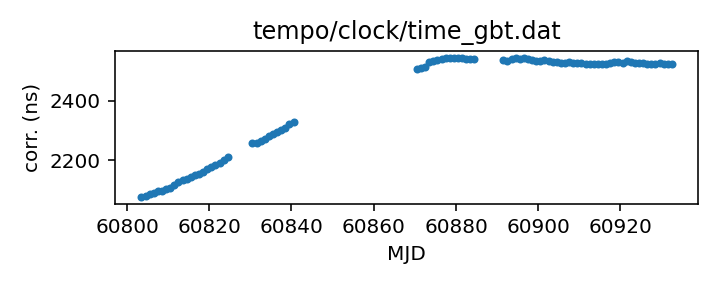
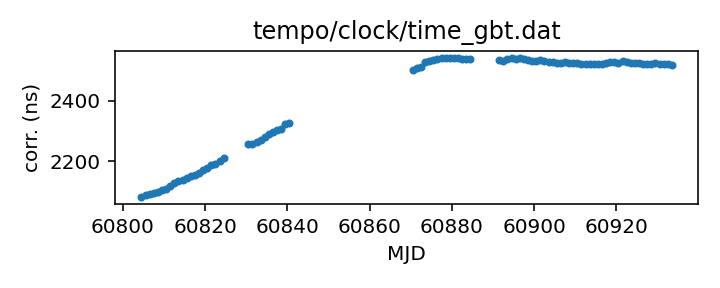
Routine gh-pages update from Github action Tue Sep 16 20:40:05 UTC 2025

diff --git a/status.md b/status.md
@@ -13,18 +13,18 @@ name of each clock file links to a page with more details.
 
 | Name | File | Corrections start | Corrections end | Last check date | Last check result 
 |:--- |:--- | --- | --- | --- |:--- 
-| [GPS to UTC](T2runtime/clock/gps2utc.clk.html) | `T2runtime/clock/gps2utc.clk` | 1993-01-01 MJD 48988.0 | 2025-08-27 MJD 60914.0 | 2025-09-15 | Unchanged 
-| [GPS to UTC (Combined Clock)](T2runtime/clock/gps2utc_cc.clk.html) | `T2runtime/clock/gps2utc_cc.clk` | 1993-01-01 MJD 48988.0 | 2025-08-27 MJD 60914.0 | 2025-09-15 | Unchanged 
-| [GPS to UTC (Corrected)](T2runtime/clock/gps2utc_c0p.clk.html) | `T2runtime/clock/gps2utc_c0p.clk` | 2010-12-29 MJD 55559.0 | 2025-08-27 MJD 60914.0 | 2025-09-15 | Unchanged 
-| [GBT](tempo/clock/time_gbt.dat.html) | `tempo/clock/time_gbt.dat` | 2000-12-31 MJD 51909.5 | 2025-09-14 MJD 60932.5 | 2025-09-15 | Updated 
-| [GBT (TEMPO2 converted from TEMPO)](T2runtime/clock/gbt2gps.clk.html) | `T2runtime/clock/gbt2gps.clk` | 2000-12-31 MJD 51909.5 | 2024-05-18 MJD 60448.5 | 2025-09-15 | **Validation failed** 
+| [GPS to UTC](T2runtime/clock/gps2utc.clk.html) | `T2runtime/clock/gps2utc.clk` | 1993-01-01 MJD 48988.0 | 2025-08-27 MJD 60914.0 | 2025-09-16 | Unchanged 
+| [GPS to UTC (Combined Clock)](T2runtime/clock/gps2utc_cc.clk.html) | `T2runtime/clock/gps2utc_cc.clk` | 1993-01-01 MJD 48988.0 | 2025-08-27 MJD 60914.0 | 2025-09-16 | Unchanged 
+| [GPS to UTC (Corrected)](T2runtime/clock/gps2utc_c0p.clk.html) | `T2runtime/clock/gps2utc_c0p.clk` | 2010-12-29 MJD 55559.0 | 2025-08-27 MJD 60914.0 | 2025-09-16 | Unchanged 
+| [GBT](tempo/clock/time_gbt.dat.html) | `tempo/clock/time_gbt.dat` | 2000-12-31 MJD 51909.5 | 2025-09-15 MJD 60933.5 | 2025-09-16 | Updated 
+| [GBT (TEMPO2 converted from TEMPO)](T2runtime/clock/gbt2gps.clk.html) | `T2runtime/clock/gbt2gps.clk` | 2000-12-31 MJD 51909.5 | 2024-05-18 MJD 60448.5 | 2025-09-16 | **Validation failed** 
 | [Jodrell Bank](T2runtime/clock/jb2gps.clk.html) | `T2runtime/clock/jb2gps.clk` | 2006-10-13 MJD 54021.4 | 2024-11-07 MJD 60621.0 | 2025-09-15 | Unchanged 
 | [Jodrell Bank Roach](T2runtime/clock/jbroach2jb.clk.html) | `T2runtime/clock/jbroach2jb.clk` | 2006-10-13 MJD 54021.4 | 2018-03-20 MJD 58197.6 | 2025-09-15 | Unchanged 
 | [Jodrell Bank DFB](T2runtime/clock/jbdfb2jb.clk.html) | `T2runtime/clock/jbdfb2jb.clk` | 2006-10-13 MJD 54021.4 | 2021-02-22 MJD 59268.0 | 2025-09-15 | Unchanged 
 | [Meerkat (observatory)](T2runtime/clock/mk2utc_observatory.clk.html) | `T2runtime/clock/mk2utc_observatory.clk` | 2019-01-01 MJD 58484.0 | 2025-08-29 MJD 60917.0 | 2025-09-15 | Unchanged 
-| [Leap seconds](tempo/clock/leap.sec.html) | `tempo/clock/leap.sec` | 1972-07-01 MJD 41499.0 | 2017-01-01 MJD 57754.0 | 2025-09-15 | Unchanged 
-| [UT1 table](tempo/clock/ut1.dat.html) | `tempo/clock/ut1.dat` | 1973-01-02 MJD 41684.0 | 2026-09-19 MJD 61302.0 | 2025-09-15 | Unchanged 
-| [UT1 table](T2runtime/clock/ut1.dat.html) | `T2runtime/clock/ut1.dat` | 1973-01-02 MJD 41684.0 | 2026-09-19 MJD 61302.0 | 2025-09-15 | Unchanged 
+| [Leap seconds](tempo/clock/leap.sec.html) | `tempo/clock/leap.sec` | 1972-07-01 MJD 41499.0 | 2017-01-01 MJD 57754.0 | 2025-09-16 | Unchanged 
+| [UT1 table](tempo/clock/ut1.dat.html) | `tempo/clock/ut1.dat` | 1973-01-02 MJD 41684.0 | 2026-09-19 MJD 61302.0 | 2025-09-16 | Unchanged 
+| [UT1 table](T2runtime/clock/ut1.dat.html) | `T2runtime/clock/ut1.dat` | 1973-01-02 MJD 41684.0 | 2026-09-19 MJD 61302.0 | 2025-09-16 | Unchanged 
 
 
 

diff --git a/T2runtime/clock/gbt2gps.clk.md b/T2runtime/clock/gbt2gps.clk.md
@@ -25,12 +25,11 @@ If questions arise about the conversion, contact Anne Archibald
 | Clock file start | 2000-12-31 MJD 51909.5 |
 | Clock file end | 2024-05-18 MJD 60448.5 |
 | Update interval (days) | 1 |
-| Last update attempt | 2025-09-15 |
+| Last update attempt | 2025-09-16 |
 | Last update result | Validation failed |
 
 Log entries from the last few update attempts:
 ```
-2025-09-06 20:34:58.186 - Validation failed: New version of T2runtime/clock/gbt2gps.clk MJDs differ from old version where they overlap in 8407 places
 2025-09-07 20:35:51.326 - Validation failed: New version of T2runtime/clock/gbt2gps.clk MJDs differ from old version where they overlap in 8407 places
 2025-09-08 20:40:26.109 - Validation failed: New version of T2runtime/clock/gbt2gps.clk MJDs differ from old version where they overlap in 8407 places
 2025-09-09 20:38:30.215 - Validation failed: New version of T2runtime/clock/gbt2gps.clk MJDs differ from old version where they overlap in 8407 places
@@ -40,6 +39,7 @@ Log entries from the last few update attempts:
 2025-09-13 20:34:30.807 - Validation failed: New version of T2runtime/clock/gbt2gps.clk MJDs differ from old version where they overlap in 8407 places
 2025-09-14 20:35:25.141 - Validation failed: New version of T2runtime/clock/gbt2gps.clk MJDs differ from old version where they overlap in 8407 places
 2025-09-15 20:38:11.194 - Validation failed: New version of T2runtime/clock/gbt2gps.clk MJDs differ from old version where they overlap in 8407 places
+2025-09-16 20:39:37.623 - Validation failed: New version of T2runtime/clock/gbt2gps.clk MJDs differ from old version where they overlap in 8407 places
 ```
 [Full log](https://raw.githubusercontent.com/ipta/pulsar-clock-corrections/main/log/T2runtime/clock/gbt2gps.clk.log)
 

diff --git a/tempo/clock/time_gbt.dat.md b/tempo/clock/time_gbt.dat.md
@@ -36,14 +36,13 @@ If questions arise, contact Ryan S. Lynch <rlynch@nrao.edu>.
 | Format | tempo |
 | Bogus last correction | False |
 | Clock file start | 2000-12-31 MJD 51909.5 |
-| Clock file end | 2025-09-14 MJD 60932.5 |
+| Clock file end | 2025-09-15 MJD 60933.5 |
 | Update interval (days) | 1 |
-| Last update attempt | 2025-09-15 |
+| Last update attempt | 2025-09-16 |
 | Last update result | Updated |
 
 Log entries from the last few update attempts:
 ```
-2025-09-06 20:34:58.126 - Updated
 2025-09-07 20:35:51.264 - Updated
 2025-09-08 20:40:25.802 - Updated
 2025-09-09 20:38:30.152 - Updated
@@ -53,12 +52,13 @@ Log entries from the last few update attempts:
 2025-09-13 20:34:30.746 - Updated
 2025-09-14 20:35:25.078 - Updated
 2025-09-15 20:38:10.910 - Updated
+2025-09-16 20:39:37.561 - Updated
 ```
 [Full log](https://raw.githubusercontent.com/ipta/pulsar-clock-corrections/main/log/tempo/clock/time_gbt.dat.log)
 
 Leading comments from clock file:
 
-     -2271.50       0.0        -0.486 1    32767-dec
+     -2271.50       0.0        -0.486 1    32765-dec
 
 
 

diff --git a/T2runtime/clock/gps2utc_c0p.clk.md b/T2runtime/clock/gps2utc_c0p.clk.md
@@ -30,12 +30,11 @@ about the BIPM's published corrections, contact <tai@bipm.org>.
 | Clock file start | 2010-12-29 MJD 55559.0 |
 | Clock file end | 2025-08-27 MJD 60914.0 |
 | Update interval (days) | 1 |
-| Last update attempt | 2025-09-15 |
+| Last update attempt | 2025-09-16 |
 | Last update result | Unchanged |
 
 Log entries from the last few update attempts:
 ```
-2025-09-06 20:34:57.815 - Unchanged
 2025-09-07 20:35:50.916 - Unchanged
 2025-09-08 20:40:25.316 - Unchanged
 2025-09-09 20:38:29.394 - Unchanged
@@ -45,6 +44,7 @@ Log entries from the last few update attempts:
 2025-09-13 20:34:30.414 - Unchanged
 2025-09-14 20:35:24.740 - Unchanged
 2025-09-15 20:38:10.417 - Unchanged
+2025-09-16 20:39:36.428 - Unchanged
 ```
 [Full log](https://raw.githubusercontent.com/ipta/pulsar-clock-corrections/main/log/T2runtime/clock/gps2utc_c0p.clk.log)
 

diff --git a/T2runtime/clock/gps2utc_cc.clk.md b/T2runtime/clock/gps2utc_cc.clk.md
@@ -29,12 +29,11 @@ about the BIPM's published corrections, contact <tai@bipm.org>.
 | Clock file start | 1993-01-01 MJD 48988.0 |
 | Clock file end | 2025-08-27 MJD 60914.0 |
 | Update interval (days) | 1 |
-| Last update attempt | 2025-09-15 |
+| Last update attempt | 2025-09-16 |
 | Last update result | Unchanged |
 
 Log entries from the last few update attempts:
 ```
-2025-09-06 20:34:57.807 - Unchanged
 2025-09-07 20:35:50.908 - Unchanged
 2025-09-08 20:40:25.308 - Unchanged
 2025-09-09 20:38:29.384 - Unchanged
@@ -44,6 +43,7 @@ Log entries from the last few update attempts:
 2025-09-13 20:34:30.406 - Unchanged
 2025-09-14 20:35:24.732 - Unchanged
 2025-09-15 20:38:10.409 - Unchanged
+2025-09-16 20:39:36.420 - Unchanged
 ```
 [Full log](https://raw.githubusercontent.com/ipta/pulsar-clock-corrections/main/log/T2runtime/clock/gps2utc_cc.clk.log)
 

diff --git a/T2runtime/clock/gps2utc.clk.md b/T2runtime/clock/gps2utc.clk.md
@@ -32,12 +32,11 @@ about the BIPM's published corrections, contact <tai@bipm.org>.
 | Clock file start | 1993-01-01 MJD 48988.0 |
 | Clock file end | 2025-08-27 MJD 60914.0 |
 | Update interval (days) | 1 |
-| Last update attempt | 2025-09-15 |
+| Last update attempt | 2025-09-16 |
 | Last update result | Unchanged |
 
 Log entries from the last few update attempts:
 ```
-2025-09-06 20:34:57.785 - Unchanged
 2025-09-07 20:35:50.886 - Unchanged
 2025-09-08 20:40:25.286 - Unchanged
 2025-09-09 20:38:29.360 - Unchanged
@@ -47,6 +46,7 @@ Log entries from the last few update attempts:
 2025-09-13 20:34:30.384 - Unchanged
 2025-09-14 20:35:24.710 - Unchanged
 2025-09-15 20:38:10.387 - Unchanged
+2025-09-16 20:39:36.398 - Unchanged
 ```
 [Full log](https://raw.githubusercontent.com/ipta/pulsar-clock-corrections/main/log/T2runtime/clock/gps2utc.clk.log)
 

diff --git a/T2runtime/clock/ut1.dat.md b/T2runtime/clock/ut1.dat.md
@@ -30,12 +30,11 @@ If there are any questions, contact Anne Archibald
 | File start | 1973-01-02 MJD 41684.0 |
 | File end | 2026-09-19 MJD 61302.0 |
 | Update interval (days) | 0 |
-| Last update attempt | 2025-09-15 |
+| Last update attempt | 2025-09-16 |
 | Last update result | Unchanged |
 
 Log entries from the last few update attempts:
 ```
-2025-09-06 20:35:06.039 - Unchanged
 2025-09-07 20:35:59.362 - Unchanged
 2025-09-08 20:40:49.709 - Unchanged
 2025-09-09 20:38:40.326 - Unchanged
@@ -45,5 +44,6 @@ Log entries from the last few update attempts:
 2025-09-13 20:34:39.365 - Unchanged
 2025-09-14 20:35:33.317 - Unchanged
 2025-09-15 20:38:33.230 - Unchanged
+2025-09-16 20:39:50.215 - Unchanged
 ```
 [Full log](https://raw.githubusercontent.com/ipta/pulsar-clock-corrections/main/log/T2runtime/clock/ut1.dat.log)

diff --git a/tempo/clock/leap.sec.md b/tempo/clock/leap.sec.md
@@ -21,12 +21,11 @@ If there are any questions, contact Anne Archibald
 | File start | 1972-07-01 MJD 41499.0 |
 | File end | 2017-01-01 MJD 57754.0 |
 | Update interval (days) | 0 |
-| Last update attempt | 2025-09-15 |
+| Last update attempt | 2025-09-16 |
 | Last update result | Unchanged |
 
 Log entries from the last few update attempts:
 ```
-2025-09-06 20:34:58.212 - Unchanged
 2025-09-07 20:35:51.351 - Unchanged
 2025-09-08 20:40:41.121 - Unchanged
 2025-09-09 20:38:30.241 - Unchanged
@@ -36,5 +35,6 @@ Log entries from the last few update attempts:
 2025-09-13 20:34:30.834 - Unchanged
 2025-09-14 20:35:25.167 - Unchanged
 2025-09-15 20:38:24.981 - Unchanged
+2025-09-16 20:39:37.649 - Unchanged
 ```
 [Full log](https://raw.githubusercontent.com/ipta/pulsar-clock-corrections/main/log/tempo/clock/leap.sec.log)

diff --git a/tempo/clock/ut1.dat.md b/tempo/clock/ut1.dat.md
@@ -30,12 +30,11 @@ If there are any questions, contact Anne Archibald
 | File start | 1973-01-02 MJD 41684.0 |
 | File end | 2026-09-19 MJD 61302.0 |
 | Update interval (days) | 0 |
-| Last update attempt | 2025-09-15 |
+| Last update attempt | 2025-09-16 |
 | Last update result | Unchanged |
 
 Log entries from the last few update attempts:
 ```
-2025-09-06 20:35:05.990 - Unchanged
 2025-09-07 20:35:59.313 - Unchanged
 2025-09-08 20:40:49.659 - Unchanged
 2025-09-09 20:38:40.275 - Unchanged
@@ -45,5 +44,6 @@ Log entries from the last few update attempts:
 2025-09-13 20:34:39.316 - Unchanged
 2025-09-14 20:35:33.266 - Unchanged
 2025-09-15 20:38:33.180 - Unchanged
+2025-09-16 20:39:50.166 - Unchanged
 ```
 [Full log](https://raw.githubusercontent.com/ipta/pulsar-clock-corrections/main/log/tempo/clock/ut1.dat.log)
